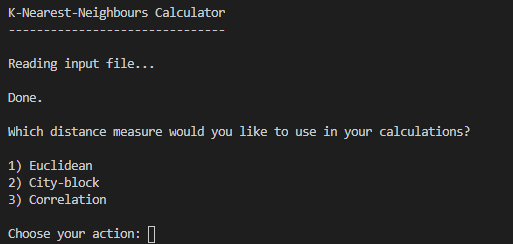
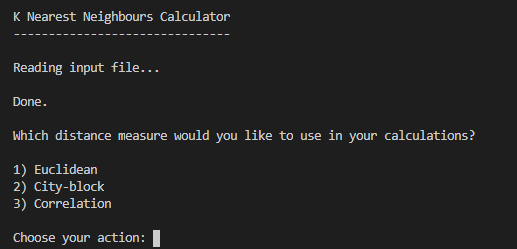
final polishes

diff --git a/main.c b/main.c
@@ -651,7 +651,7 @@ size_t read_from_file(char* adress, double*** varray)
 
 int main()
 {
-    printf("\nK-Nearest-Neighbours Calculator\n"
+    printf("\nK Nearest Neighbours Calculator\n"
         "-------------------------------\n");
 
     double** varray = NULL;
